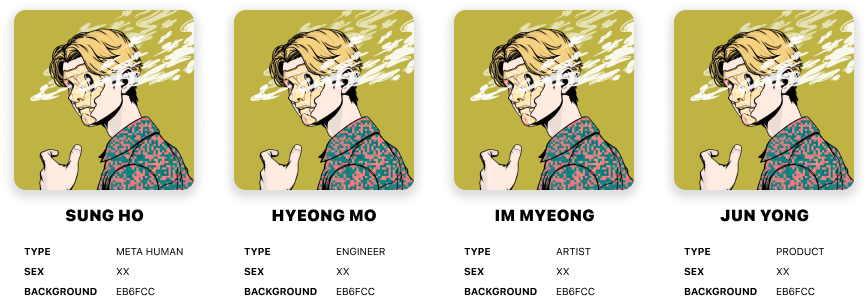
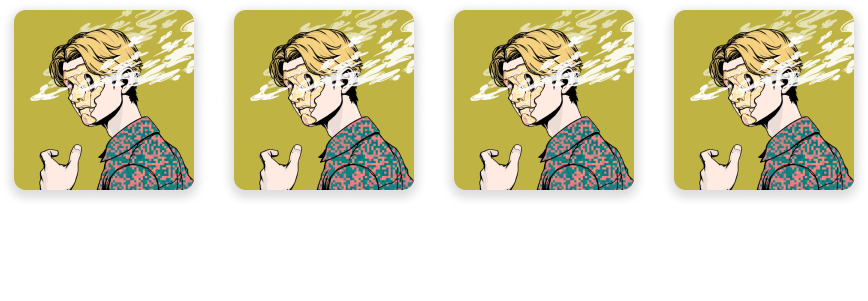
:sparkles: 다크모드 추가 / 갤럭시 페이지 구성 개선

diff --git a/src/pages/galaxy.tsx b/src/pages/galaxy.tsx
@@ -1,8 +1,19 @@
+import NFTDetailCard from "@/components/Card/NFTDetailCard";
+import INFT from "@/schema/INFT";
 import Image from "next/image";
+import { useEffect } from "react";
 
 function Galaxy() {
+  useEffect(() => {
+    const root = window.document.documentElement;
+    root.classList.add("dark");
+    return () => {
+      root.classList.remove("dark");
+    };
+  });
+
   return (
-    <div className="container h-screen w-screen px-56 pt-36">
+    <div className="bg-black px-56 pt-36 text-white">
       <div className="relative h-20 w-80">
         <Image
           src="/assets/icons/mhaf_full_white.svg"
@@ -16,9 +27,10 @@ function Galaxy() {
         coming.
         <br />
         <br />
-        Meta Humans create a new world called 'Metaverse' for coexistence with
-        humans and technological innovations in many ways, including language,
-        lifestyle, culture, fashion, games, and music, to help mankind develop.
+        Meta Humans create a new world called &apos;Metaverse&apos; for
+        coexistence with humans and technological innovations in many ways,
+        including language, lifestyle, culture, fashion, games, and music, to
+        help mankind develop.
         <br />
         <br />
         With exclusive access to the Meta Human collection of 5,000 XX and 5,000
@@ -42,13 +54,105 @@ function Galaxy() {
 
       <div className="mt-56 text-3xl font-black">FANCY WORK MEMBERS</div>
 
-      <div className="relative h-full w-full">
-        <Image
-          src="/assets/images/team.png"
-          layout="fill"
-          objectFit="contain"
-          alt="logo"
+      <div className="mt-14 flex justify-center gap-12 px-40">
+        <NFTDetailCard
+          nft={
+            {
+              id: 0,
+              name: `SUNG HO`,
+              image: `https://ipfs.io/ipfs/Qme42XjH7tBpvqyCqQFoa6UmbXehnRbwk5NDVATCSVQvf3`,
+              color: "#8BCDE8",
+              attributes: [
+                {
+                  trait_type: "Background",
+                  value: "#8BCDE8",
+                },
+                {
+                  trait_type: "Clothes",
+                  value: "dd",
+                },
+              ],
+            } as INFT
+          }
         />
+        <NFTDetailCard
+          nft={
+            {
+              id: 0,
+              name: `HYONG MO`,
+              image: `https://ipfs.io/ipfs/Qme42XjH7tBpvqyCqQFoa6UmbXehnRbwk5NDVATCSVQvf3`,
+              color: "#8BCDE8",
+              attributes: [
+                {
+                  trait_type: "Background",
+                  value: "#8BCDE8",
+                },
+                {
+                  trait_type: "Clothes",
+                  value: "dd",
+                },
+              ],
+            } as INFT
+          }
+        />
+        <NFTDetailCard
+          nft={
+            {
+              id: 0,
+              name: `IM MYOUNG`,
+              image: `https://ipfs.io/ipfs/Qme42XjH7tBpvqyCqQFoa6UmbXehnRbwk5NDVATCSVQvf3`,
+              color: "#8BCDE8",
+              attributes: [
+                {
+                  trait_type: "Background",
+                  value: "#8BCDE8",
+                },
+                {
+                  trait_type: "Clothes",
+                  value: "dd",
+                },
+              ],
+            } as INFT
+          }
+        />
+        <NFTDetailCard
+          nft={
+            {
+              id: 0,
+              name: `RYAN`,
+              image: `https://ipfs.io/ipfs/Qme42XjH7tBpvqyCqQFoa6UmbXehnRbwk5NDVATCSVQvf3`,
+              color: "#8BCDE8",
+              attributes: [
+                {
+                  trait_type: "Background",
+                  value: "#8BCDE8",
+                },
+                {
+                  trait_type: "Clothes",
+                  value: "dd",
+                },
+              ],
+            } as INFT
+          }
+        />
+      </div>
+      <div className="mt-11 flex justify-center pb-32">
+        <a
+          className="border-b-[0.5px] border-white text-sm font-light"
+          href="https://discord.com"
+          target="_blank"
+          rel="noreferrer"
+        >
+          TOGETHER WITH US IN
+          <span className="pl-4">
+            <Image
+              src="/assets/icons/discord.svg"
+              width={16}
+              height={12}
+              alt="discord"
+            />
+          </span>
+        </a>
       </div>
     </div>
   );

diff --git a/src/components/NavBar/NavBar.tsx b/src/components/NavBar/NavBar.tsx
@@ -7,7 +7,7 @@ import Image from "next/image";
 import WalletSwitch from "../WalletSwitch";
 import { setJoyrideWalletSwitch } from "@/store/modules/joyride";
 import { Squash as Hamburger } from "hamburger-react";
-import { useState } from "react";
+import { useEffect, useState } from "react";
 import MobileMenuModal from "../Modal/MobileMenuModal";
 import { routerItems, socialItems } from "@/config/router";
 
@@ -54,23 +54,35 @@ function NavBar({ isShowing }: Props) {
         }`}
       >
         <div className="mx-auto flex h-full cursor-pointer items-center justify-between">
-          <Link href="/" passHref>
-            <Image
-              src="/assets/icons/mhaf.svg"
-              width={156}
-              height={24}
-              alt="back"
-            />
-          </Link>
-          <div className="hidden items-center lg:flex" id="mobile-menu">
+          <div className="flex dark:hidden">
+            <Link href="/" passHref>
+              <Image
+                src="/assets/icons/mhaf.svg"
+                width={156}
+                height={24}
+                alt="logo"
+              />
+            </Link>
+          </div>
+          <div className="hidden dark:flex">
+            <Link href="/" passHref>
+              <Image
+                src="/assets/icons/mhaf_white.svg"
+                width={156}
+                height={24}
+                alt="logo"
+              />
+            </Link>
+          </div>
+          <div className="hidden items-center lg:flex">
             <ul className="flex space-x-6 uppercase">
               {routerItems.map(({ href, title }) => (
                 <li
                   key={title}
                   className={
                     router.pathname === href
-                      ? "btn-router-active"
-                      : "btn-router"
+                      ? "btn-router-active dark:btn-router-active-dark"
+                      : "btn-router dark:btn-router-dark"
                   }
                 >
                   <Link href={href}>{title}</Link>

diff --git a/src/pages/gallery.tsx b/src/pages/gallery.tsx
@@ -110,7 +110,7 @@ function Gallery({ collection }: Props) {
     <div className="mt-32 lg:px-14">
       <div className="flex justify-center">
         <div
-          className={`left-0 top-0 z-10 flex h-screen w-screen animate-fade-in-fast items-center justify-center px-5 backdrop-blur-md duration-75 lg:sticky lg:top-40 lg:w-full lg:items-start lg:p-0 lg:backdrop-blur-none ${
+          className={`left-0 top-0 z-10 flex h-screen w-screen animate-fade-in-fast items-center justify-center px-5 backdrop-blur-md duration-75 lg:sticky lg:top-40 lg:w-full lg:items-start lg:p-0 lg:px-10 lg:backdrop-blur-none xl:px-20 2xl:px-40 ${
             isSelectedNFTShowing ? "fixed" : "hidden lg:flex"
           }`}
           onClick={handleCloseMobileSelectedNFT}

diff --git a/tailwind.config.js b/tailwind.config.js
@@ -1,6 +1,7 @@
 plugin = require("tailwindcss/plugin");
 
 module.exports = {
+  darkMode: "class",
   content: ["./src/pages/**/*.{ts,tsx}", "./src/components/**/*.{ts,tsx}"],
   theme: {
     extend: {
@@ -35,6 +36,12 @@ module.exports = {
         },
         ".btn-router-active": {
           "@apply btn-router bg-black text-header-btn-background": {},
+        },
+        ".btn-router-dark": {
+          "@apply rounded-full p-2 text-2xs text-white": {},
+        },
+        ".btn-router-active-dark": {
+          "@apply btn-router bg-white text-black": {},
         },
       });
       addUtilities({

diff --git a/src/components/Card/NFTDetailCard.tsx b/src/components/Card/NFTDetailCard.tsx
@@ -19,7 +19,7 @@ const backgroundColor = [
 
 function NFTDetailCard({ nft }: Props) {
   return (
-    <div className="w-full lg:px-10 xl:px-20 2xl:px-40">
+    <div className="w-full">
       <div
         style={{
           backgroundColor:
